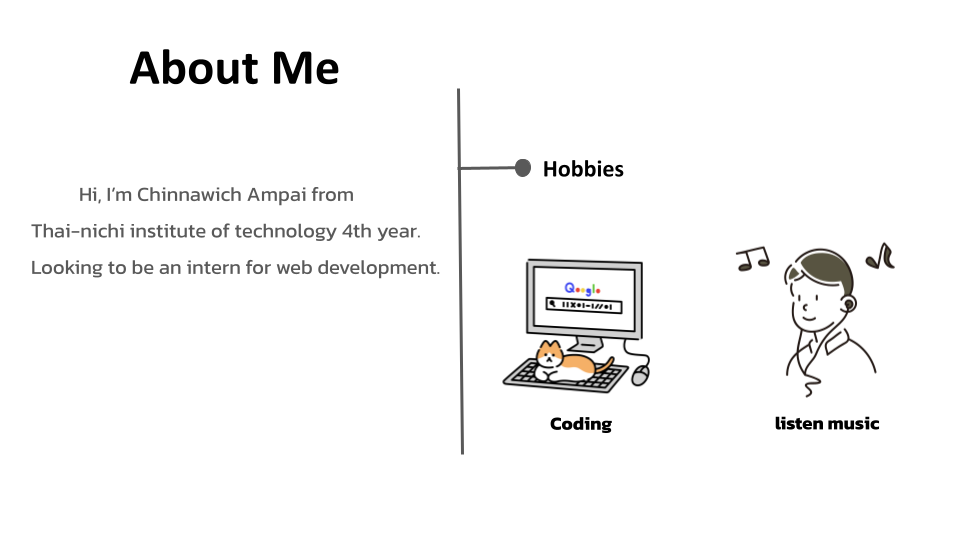
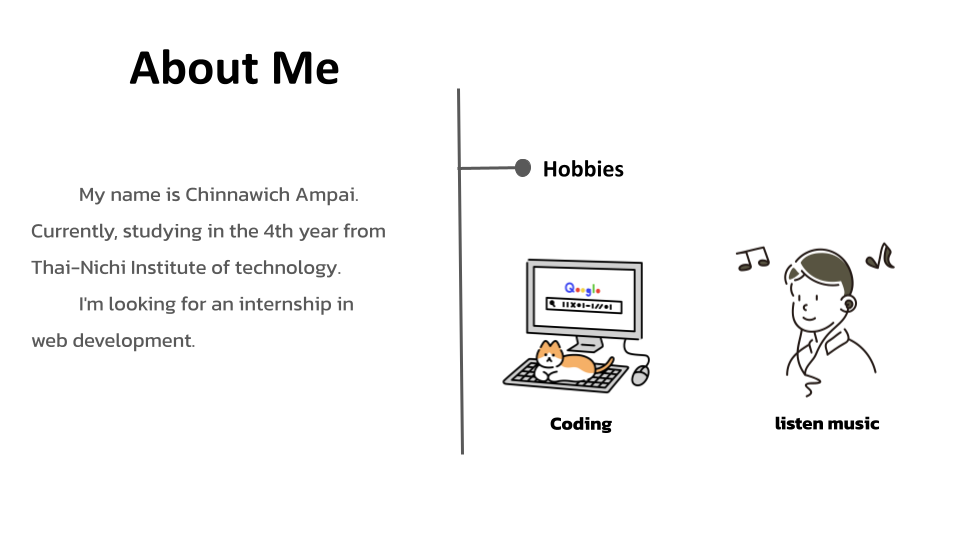
update project

diff --git a/src/components/HomePage.tsx b/src/components/HomePage.tsx
@@ -1,7 +1,9 @@
 import React from "react";
 import Lottie, { LottieRefCurrentProps } from "lottie-react";
 import arrowData from "../assets/arrowData.json";
-import iconThink from "../assets/iconThink.png";
+import GithubIcon from "../assets/code.png";
+
+import linkedinIcon from "../assets/linkedin.png";
 
 import {
   Tooltip,
@@ -14,33 +16,57 @@ const HomePage = () => {
   const lottieRef = React.useRef<LottieRefCurrentProps>(null);
 
   return (
-    <div className="top-section h-screen place-items-center grid">
-      <div className="text-center">
-        <h1 className="sm:text-5xl text-3xl mb-5 select-none ">
-          Hi, I am Chinnawich Ampai
-        </h1>
-        <h2 className="sm:text-2xl text-lg">Thai-nichi institute of technology</h2>
+    <div className="h-screen place-items-center grid ">
+      <div className="bgImage"></div>
+      <div className=" z-10 flex flex-col justify-center items-center gap-y-10 mb-10">
+        <div className="text-center">
+          <h1 className="sm:text-5xl text-4xl mb-5 select-none font-bold text-brown ">
+            Hi, I am Chinnawich Ampai
+          </h1>
+          <h2 className="sm:text-2xl text-lg text-brown">
+            Thai-nichi institute of technology
+          </h2>
+        </div>
+        <div className="flex flex-row gap-5 z-10">
+          <a href="https://github.com/HimitsuTH" target="_black">
+            <img
+              src={GithubIcon}
+              alt="github"
+              className=" w-10 h-10 hover:scale-90 transition-all"
+            />
+          </a>
+          <a
+            href="https://www.linkedin.com/in/chinnawich-ampai-064353284/"
+            target="_black"
+          >
+            <img
+              src={linkedinIcon}
+              alt="linkedin"
+              className=" w-10 h-10 hover:scale-90 transition-all"
+            />
+          </a>
+        </div>
       </div>
-      <div className=" absolute w-60 h-60 right-20 md:block hidden">
-        <img src={iconThink} alt="icon" />
-      </div>
+  
 
-      <TooltipProvider>
-        <Tooltip>
-          <TooltipTrigger>
-            <a href="#about">
-              <Lottie
-                lottieRef={lottieRef}
-                animationData={arrowData}
-                className=" h-20 w-20"
-              />
-            </a>
-          </TooltipTrigger>
-          <TooltipContent>
-            <p>See more</p>
-          </TooltipContent>
-        </Tooltip>
-      </TooltipProvider>
+      <div className=" absolute bottom-6">
+        <TooltipProvider>
+          <Tooltip>
+            <TooltipTrigger>
+              <a href="#about">
+                <Lottie
+                  lottieRef={lottieRef}
+                  animationData={arrowData}
+                  className=" h-20 w-20"
+                />
+              </a>
+            </TooltipTrigger>
+            <TooltipContent>
+              <p>See more</p>
+            </TooltipContent>
+          </Tooltip>
+        </TooltipProvider>
+      </div>
     </div>
   );
 };

diff --git a/src/components/ProjectPage.tsx b/src/components/ProjectPage.tsx
@@ -18,15 +18,16 @@ import {
 const ProjectPage = () => {
   return (
     <div className="top-section md:h-screen place-items-center grid p-10 md:p-0 relative">
-      <div className=" absolute w-72 h-72 left-4 bottom-3 md:block hidden z-10">
+      <div className="bgImage"></div>
+      <div className=" absolute w-72 h-72 left-4 bottom-3 lg:block hidden z-10">
         <img src={iconError} alt="icon" />
       </div>
       <div className=" z-20">
-        <h1 className="sm:text-4xl text-2xl mb-5 select-none  text-center">
+        <h1 className="sm:text-4xl text-3xl mb-5 select-none  text-center">
           Project
         </h1>
-        <div className=" flex flex-col md:flex-row gap-10 flex-wrap items-center justify-center">
-          <Card className=" w-56 p-4 flex justify-center flex-col items-center select-none">
+        <div className=" grid grid-cols-1 gap-10  min-[720px]:grid-cols-2 xl:grid-flow-col">
+          <Card className=" w-64 h-72 p-4 flex justify-center flex-col items-center select-none">
             <CardHeader>
               <CardTitle className=" text-lg">Website</CardTitle>
             </CardHeader>
@@ -51,7 +52,7 @@ const ProjectPage = () => {
               </a>
             </CardFooter>
           </Card>
-          <Card className=" w-56 p-4 flex justify-center flex-col items-center select-none">
+          <Card className=" w-64 h-72 p-4 flex justify-center flex-col items-center select-none">
             <CardHeader>
               <CardTitle className=" text-lg">RestFulApi</CardTitle>
             </CardHeader>
@@ -76,7 +77,7 @@ const ProjectPage = () => {
               </a>
             </CardFooter>
           </Card>
-          <Card className=" w-56 p-4 flex justify-center flex-col items-center select-none">
+          <Card className=" w-64 h-72 p-4 flex justify-center flex-col items-center select-none">
             <CardHeader>
               <CardTitle className=" text-lg">React Native</CardTitle>
             </CardHeader>
@@ -94,7 +95,7 @@ const ProjectPage = () => {
               </a>
             </CardFooter>
           </Card>
-          <Card className=" w-56 p-4 flex justify-center flex-col items-center select-none">
+          <Card className=" w-64 h-72 p-4 flex justify-center flex-col items-center select-none">
             <CardHeader>
               <CardTitle className=" text-lg">Frontend Mentor</CardTitle>
             </CardHeader>

diff --git a/src/components/AboutPage.tsx b/src/components/AboutPage.tsx
@@ -2,6 +2,7 @@ import React, { useState } from "react";
 import EducationImg from "../assets/educationImg.png";
 import Education from "./About/Education";
 import Introduction from "./About/Introduction";
+import Skill from "./About/Skill";
 
 import {
   Accordion,
@@ -45,21 +46,21 @@ const AboutPage = () => {
 
   return (
     <div
-      className="h-screen  p-10 grid place-items-center relative "
+      className="h-screen  p-10 grid place-items-center relative  "
       id="about"
     >
       <Accordion
         type="single"
         collapsible
-        className="  w-full  min-[920px]:hidden block bg-white p-5 rounded-md"
+        className="  w-full  min-[920px]:hidden block bg-white p-5 rounded-md z-10"
       >
         <AccordionItem value="item-1">
           <AccordionTrigger>Introduction</AccordionTrigger>
           <AccordionContent>
             <p>
-              Hi, I'm Chinnawich Ampai from Thai-nichi institute of technology
-              4th year. <br />
-              Looking to be an intern for web development.
+              My name is Chinnawich Ampai. Currently, studying in the 4th year
+              from Thai-Nichi Institute of technology. I'm looking for an
+              internship in web development.
             </p>
             <br />
             <strong>Hobbies</strong>
@@ -81,7 +82,10 @@ const AboutPage = () => {
         <AccordionItem value="item-3">
           <AccordionTrigger>Skill</AccordionTrigger>
           <AccordionContent>
-            <p>HTML, CSS, Java Script, Java, C#, React js, Node js</p>
+            <p>
+              HTML, CSS, Java Script, React js, Node js,
+              <br /> SASS, Tailwind CSS, Java, C#,
+            </p>
           </AccordionContent>
         </AccordionItem>
       </Accordion>
@@ -142,7 +146,7 @@ const AboutPage = () => {
           ) : tabActive === "tab2" ? (
             <Education image={EducationImg} />
           ) : (
-            <div>#</div>
+            <Skill />
           )}
         </div>
       )}

diff --git a/src/App.css b/src/App.css
@@ -1,6 +1,47 @@
 .list-item {
-    transition: 500ms all;
+  transition: 500ms all;
 }
 .list-item:hover {
-    transform: translateX(10%);
+  transform: translateX(10%);
 }
+
+.bgImage {
+  background: url("./assets/test.jpg") no-repeat center;
+  background-size: cover;
+  object-fit: cover;
+  opacity: 50%;
+  width: 100%;
+  height: 100vh;
+  position: absolute;
+}
+
+.bgImage::before {
+  --tw-bg-opacity: 1;
+
+  content: "";
+  position: absolute;
+  background: linear-gradient(
+    180deg,
+    rgb(231 229 228 / var(--tw-bg-opacity)) 10%,
+    transparent 50%
+  );
+  width: 100%;
+  height: 100%;
+  top: 0;
+  z-index: 0;
+}
+.bgImage::after {
+    --tw-bg-opacity: 1;
+  
+    content: "";
+    position: absolute;
+    background: linear-gradient(
+      0deg,
+      rgb(231 229 228 / var(--tw-bg-opacity)) 10%,
+      transparent 80%
+    );
+    width: 100%;
+    height: 100%;
+    top: 0;
+    z-index: 0;
+  }

diff --git a/tailwind.config.js b/tailwind.config.js
@@ -2,11 +2,11 @@
 module.exports = {
   darkMode: ["class"],
   content: [
-    './pages/**/*.{ts,tsx}',
-    './components/**/*.{ts,tsx}',
-    './app/**/*.{ts,tsx}',
-    './src/**/*.{ts,tsx}',
-	],
+    "./pages/**/*.{ts,tsx}",
+    "./components/**/*.{ts,tsx}",
+    "./app/**/*.{ts,tsx}",
+    "./src/**/*.{ts,tsx}",
+  ],
   theme: {
     container: {
       center: true,
@@ -17,6 +17,7 @@ module.exports = {
     },
     extend: {
       colors: {
+        "brown": "#3F2305",
         border: "hsl(var(--border))",
         input: "hsl(var(--input))",
         ring: "hsl(var(--ring))",
@@ -73,4 +74,4 @@ module.exports = {
     },
   },
   plugins: [require("tailwindcss-animate")],
-}
+};

diff --git a/src/components/GithubIcon.tsx b/src/components/GithubIcon.tsx
@@ -13,7 +13,7 @@ const GithubIcon = () => {
   const lottieRef = React.useRef<LottieRefCurrentProps>(null);
 
   return (
-    <div className=" fixed top-4 right-5 z-10">
+    <div className=" fixed top-4 right-5 z-40 ">
       <TooltipProvider>
         <Tooltip>
           <TooltipTrigger>
@@ -21,7 +21,7 @@ const GithubIcon = () => {
               <Lottie
                 lottieRef={lottieRef}
                 animationData={GithubIconData}
-                className=" h-8 w-8 hover:scale-125 transition-all"
+                className=" h-12 w-12 hover:scale-125 transition-all bg-white  rounded-lg p-2 shadow-lg"
               />
             </a>
           </TooltipTrigger>

diff --git a/src/components/ContactPage.tsx b/src/components/ContactPage.tsx
@@ -7,14 +7,7 @@ const ContactPage = () => {
   return (
     <div className=" place-items-center grid overflow-hidden bg-white">
       <div className=" m-5">
-        <div className="flex flex-row gap-5">
-          <a href="https://github.com/HimitsuTH" target="_black">
-            <img src={GithubIcon} alt="github" className=" w-10 h-10 hover:scale-90 transition-all" />
-          </a>
-          <a href="https://www.linkedin.com/in/chinnawich-ampai-064353284/" target="_black">
-            <img src={linkedinIcon} alt="linkedin" className=" w-10 h-10 hover:scale-90 transition-all" />
-          </a>
-        </div>
+        
       </div>
     </div>
   );

diff --git a/src/App.tsx b/src/App.tsx
@@ -3,7 +3,7 @@ import GithubIcon from "./components/GithubIcon";
 import HomePage from "./components/HomePage";
 import AboutPage from "./components/AboutPage";
 import ProjectPage from "./components/ProjectPage";
-import ContactPage from "./components/ContactPage";
+// import ContactPage from "./components/ContactPage";
 
 import "./App.css";
 
@@ -15,7 +15,7 @@ function App() {
         <HomePage />
         <AboutPage />
         <ProjectPage/>
-        <ContactPage/>
+        {/* <ContactPage/> */}
       </div>
     </>
   );

diff --git a/src/components/About/Introduction.tsx b/src/components/About/Introduction.tsx
@@ -1,14 +1,12 @@
 // import React from 'react'
-import image from '../../assets/About.png'
-
-
+import image from "../../assets/About.png";
 
 const Introduction = () => {
   return (
     <div className="flex items-center flex-col  transition-all justify-center">
-    <img src={image} alt="education" />
-  </div>
-  )
-}
+      <img src={image} alt="education" />
+    </div>
+  );
+};
 
-export default Introduction
+export default Introduction;

diff --git a/src/components/About/Skill.tsx b/src/components/About/Skill.tsx
@@ -1,0 +1,11 @@
+import image from "../../assets/skill_Image.png";
+
+const Skill = () => {
+  return (
+    <div className="flex items-center flex-col  transition-all justify-center">
+      <img src={image} alt="education" />
+    </div>
+  );
+};
+
+export default Skill;
